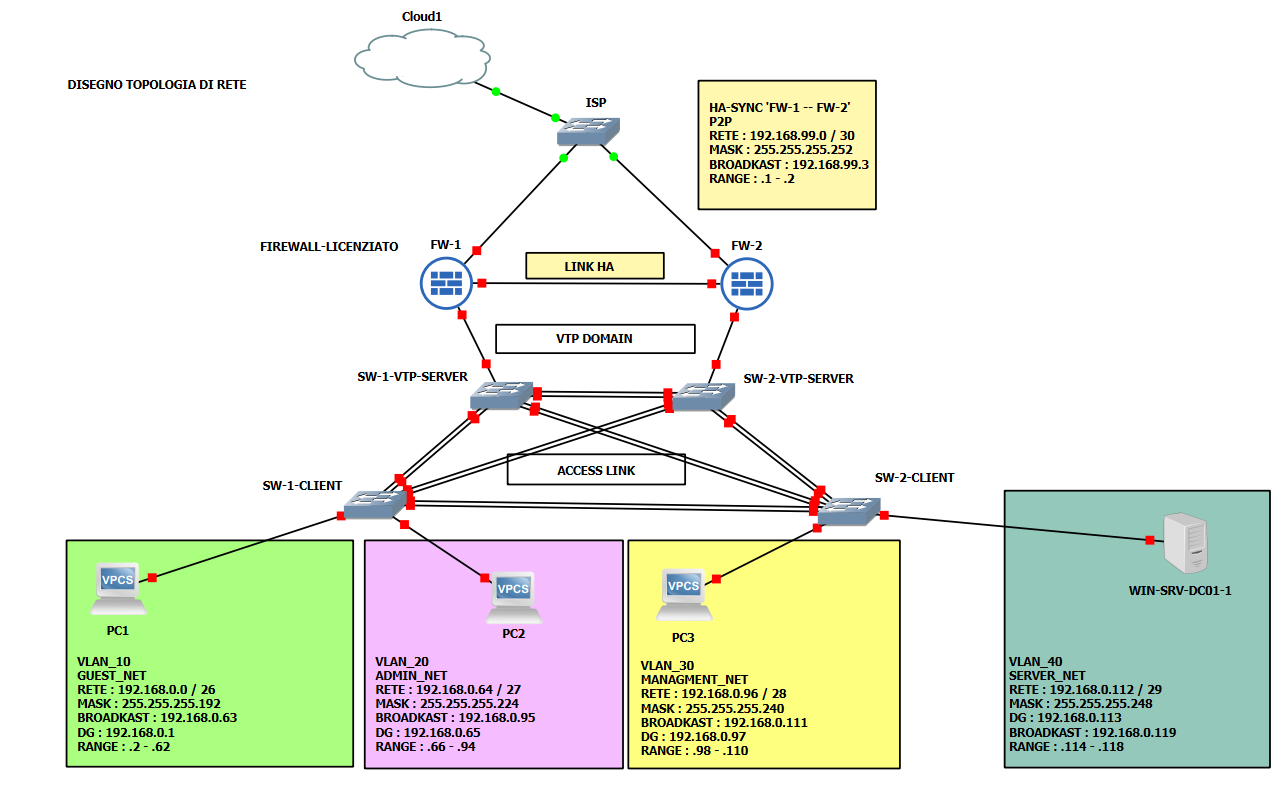
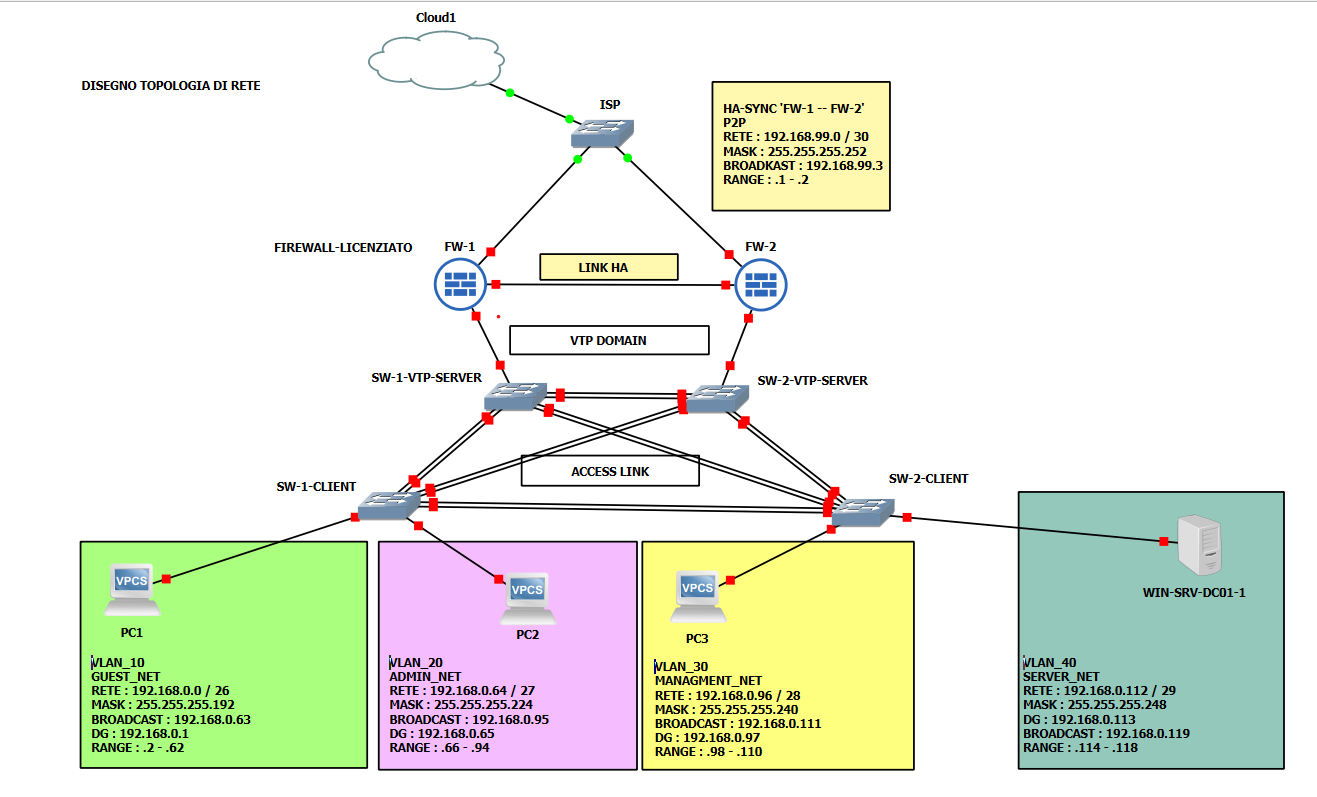
[FIX] descrizione creazione vlan parcheggio, mofifica screen topology

diff --git a/index.html b/index.html
@@ -1025,16 +1025,19 @@
                   Per la creazione della VLAN parcheggio la procedura
                   corrisponde a quanto visto nella creazione delle VLAN
                   10,20,30,40; Questa viene sempre creata dallo Switch Primary
-                  Server, ho notato che al riavvio del dispositivo la
-                  designazione di uno specifico switch a Primary Server non
-                  resta configurata, pertanto ho dovuto ripetere il comando per
-                  eleggere SW-1-VTP-SERVER a server primario; <br />
+                  Server, e necessario ripetere il comando 'vtp primary vlan' in
+                  quanto essendo un comando operativo il dispositivo perde il
+                  privilegio Primary Server al suo riavvio. <br />
                   - interface range ... : applica lo stesso blocco di comandi a
                   tutte le interfacce selezionate, ottimo metodo per evitare di
-                  configurare le interfacce una alla volta. <br/>
-                  - switchport mode access : comando necessario per assegnare una VLAN access.<br/>
-                  - switchport access vlan 999 : assegna la porta fisica alla VLAN parcheggio, che resta isolata dal resto della rete. <br/>
-                  - shutdown : spegne completamente la porta, essendo non utilizzata.
+                  configurare le interfacce una alla volta. <br />
+                  - switchport mode access : comando necessario per assegnare
+                  una VLAN access.<br />
+                  - switchport access vlan 999 : assegna la porta fisica alla
+                  VLAN parcheggio, che resta isolata dal resto della rete.
+                  <br />
+                  - shutdown : spegne completamente la porta, essendo non
+                  utilizzata.
                 </p>
                 <br />
                 <h4>Comandi di diagnostica</h4>
@@ -1042,7 +1045,7 @@
                   - show vlan brief : esegui questo comando su ogni switch
                   appartenente al dominio VTP, mostra il riepilogo delle VLAN
                   create localmente nel dispositivo e accertarsi che queste
-                  vengano replicate sugli switch restanti. <br/>
+                  vengano replicate sugli switch restanti. <br />
                   - show interfaces status : mostra lo stato delle porte.
                 </p>
               </div>